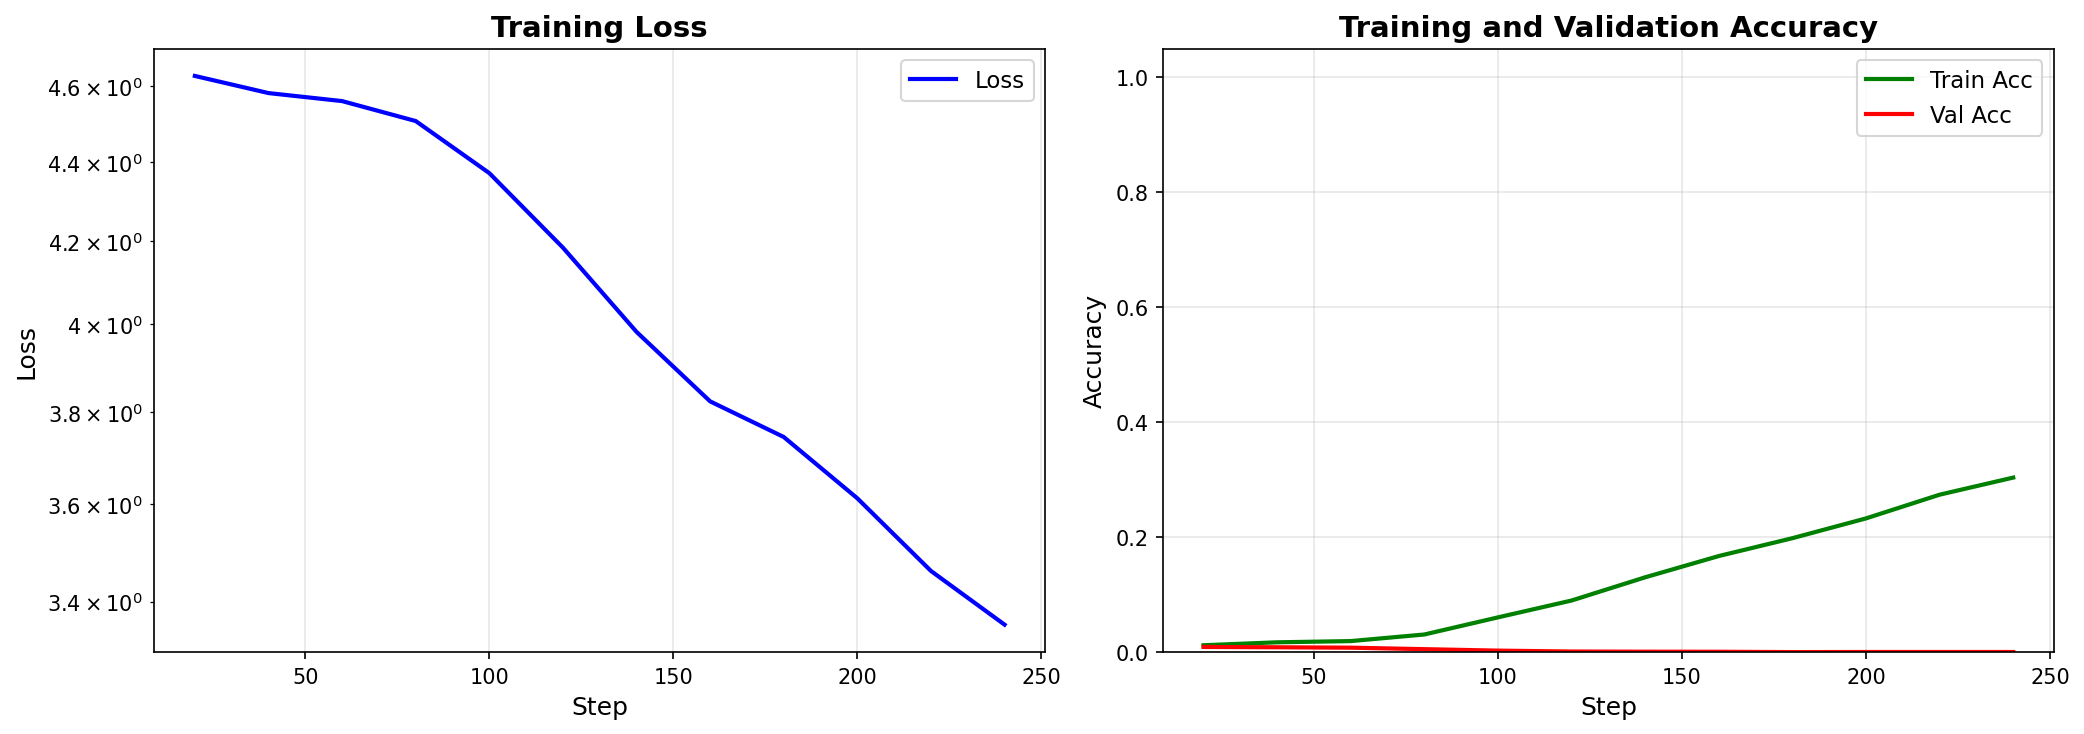
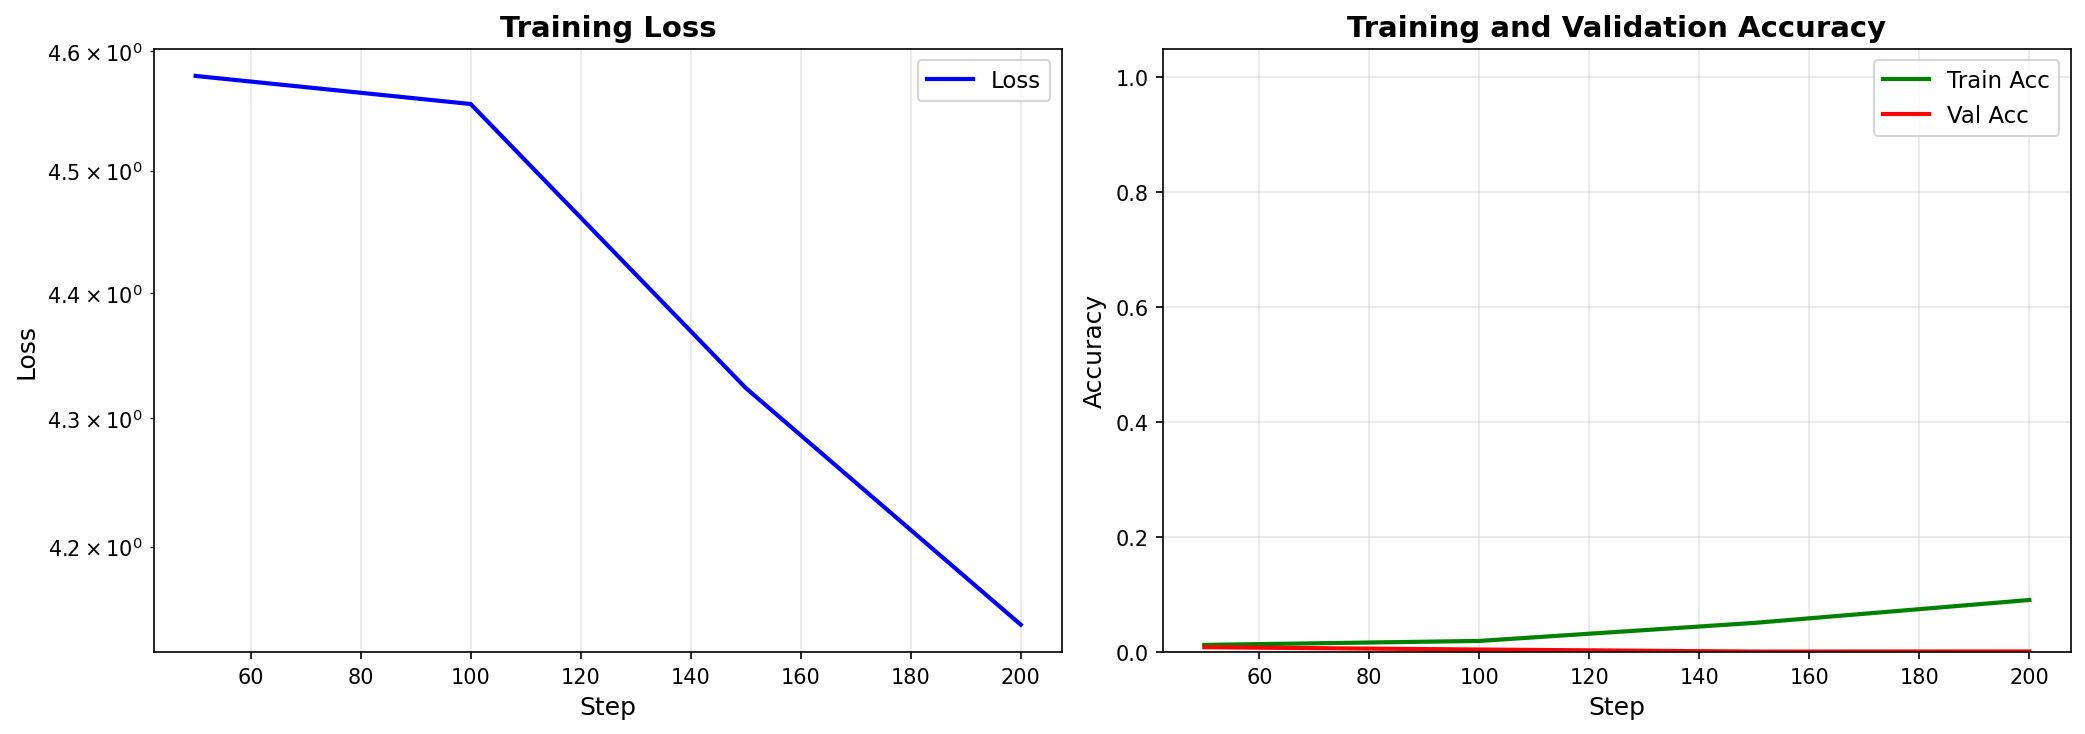
better readme

diff --git a/README.md b/README.md
@@ -6,36 +6,34 @@
  - Kairui Li
  - Kehan Huang
 
-好的，以下是更详细且完整的复现技术细节，直接列出所有关键信息，避免引用附录：
-
 ---
 
 ### **1. 数据集**
 #### **数据生成**
-- 数据集由二元运算表组成，形式为 \(a \circ b = c\)，其中 \(a, b, c\) 是离散符号，\(\circ\) 是二元运算。
+- 数据集由二元运算表组成，形式为 $a \circ b = c$，其中 $a, b, c$ 是离散符号，$\circ$ 是二元运算。
 - 使用的二元运算包括：
-  1. \(x \circ y = x + y \ (\text{mod}\ p)\)，其中 \(0 \leq x, y < p\)。
-  2. \(x \circ y = x - y \ (\text{mod}\ p)\)，其中 \(0 \leq x, y < p\)。
-  3. \(x \circ y = x / y \ (\text{mod}\ p)\)，其中 \(0 \leq x < p\)，\(0 < y < p\)。
-  4. \(x \circ y = [x / y \ (\text{mod}\ p)\ \text{if}\ y\ \text{is odd},\ \text{otherwise}\ x - y \ (\text{mod}\ p)]\)。
-  5. \(x \circ y = x^2 + y^2 \ (\text{mod}\ p)\)，其中 \(0 \leq x, y < p\)。
-  6. \(x \circ y = x^2 + xy + y^2 \ (\text{mod}\ p)\)，其中 \(0 \leq x, y < p\)。
-  7. \(x \circ y = x^2 + xy + y^2 + x \ (\text{mod}\ p)\)，其中 \(0 \leq x, y < p\)。
-  8. \(x \circ y = x^3 + xy \ (\text{mod}\ p)\)，其中 \(0 \leq x, y < p\)。
-  9. \(x \circ y = x^3 + xy^2 + y \ (\text{mod}\ p)\)，其中 \(0 \leq x, y < p\)。
-  10. \(x \circ y = x \cdot y\)，其中 \(x, y \in S_5\)（对称群）。
-  11. \(x \circ y = x \cdot y \cdot x^{-1}\)，其中 \(x, y \in S_5\)。
-  12. \(x \circ y = x \cdot y \cdot x\)，其中 \(x, y \in S_5\)。
+  1. $x \circ y = (x + y) \mod p$，其中 $0 \leq x, y < p$。
+  2. $x \circ y = (x - y) \mod p$，其中 $0 \leq x, y < p$。
+  3. $x \circ y = x / y \mod p$，其中 $0 \leq x < p$，$0 < y < p$。
+  4. $x \circ y = [\,x / y \mod p\ \text{ if } y \text{ is odd },\ \text{ otherwise } x - y \mod p\,]$。
+  5. $x \circ y = x^2 + y^2 \mod p$，其中 $0 \leq x, y < p$。
+  6. $x \circ y = x^2 + xy + y^2 \mod p$，其中 $0 \leq x, y < p$。
+  7. $x \circ y = x^2 + xy + y^2 + x \mod p$，其中 $0 \leq x, y < p$。
+  8. $x \circ y = x^3 + xy \mod p$，其中 $0 \leq x, y < p$。
+  9. $x \circ y = x^3 + xy^2 + y \mod p$，其中 $0 \leq x, y < p$。
+  10. $x \circ y = x \cdot y$，其中 $x, y \in S_5$（对称群）。
+  11. $x \circ y = x \cdot y \cdot x^{-1}$，其中 $x, y \in S_5$。
+  12. $x \circ y = x \cdot y \cdot x$，其中 $x, y \in S_5$。
 
-- **模数 \(p\)**：在实验中使用 \(p = 97\)。
+- **模数 $p$**：在实验中使用 $p = 97$。
 
 #### **数据划分**
 - 从所有可能的方程中随机选择一部分作为训练集，其余作为验证集。
 - 训练集的比例可以是 50%、30%、25% 等，具体比例会影响模型的泛化能力。
 
 #### **符号表示**
-- 每个符号（包括 \(a, b, c, \circ, =\)）都被表示为独立的 token。
-- 数据集中的每个方程形式为 \(⟨x⟩⟨op⟩⟨y⟩⟨=⟩⟨x \circ y⟩\)，其中 \(⟨a⟩\) 表示对应元素 \(a\) 的 token。
+- 每个符号（包括 $a, b, c, \circ, =$）都被表示为独立的 token。
+- 数据集中的每个方程形式为 $⟨x⟩⟨op⟩⟨y⟩⟨=⟩⟨x \circ y⟩$，其中 $⟨a⟩$ 表示对应元素 $a$ 的 token。
 
 ---
 
@@ -55,7 +53,7 @@
   - AdamW 的默认设置：
     - 学习率：10⁻³
     - 权重衰减：1
-    - 超参数 \(\beta_1 = 0.9\)，\(\beta_2 = 0.98\)
+- 超参数 $\beta_1 = 0.9$，$\beta_2 = 0.98$
     - 学习率预热：线性预热，前 10 次更新
     - 小批量大小：512 或训练集大小的一半（取较小值）
     - 优化步数：10⁵ 步
@@ -107,18 +105,14 @@
 
 ---
 
-通过以上详细的技术细节，你可以完整地复现论文中的实验，并探索神经网络在小算法数据集上的泛化行为。
-
----
-
 ### **项目架构**
 - 入口脚本：`train.py`（解析命令行参数并启动训练）
 - 模块目录：`mlfinal/`
-  - `config.py`：配置数据类 `Config`（c:\Users\33235\Desktop\机器学习数学导引作业\ML-final\mlfinal\config.py:4）
-  - `data.py`：数据与词表，支持模运算与 `S5` 群（c:\Users\33235\Desktop\机器学习数学导引作业\ML-final\mlfinal\data.py:93）
-  - `model.py`：解码器-only Transformer（c:\Users\33235\Desktop\机器学习数学导引作业\ML-final\mlfinal\model.py:1）
-  - `utils.py`：优化器构建、训练曲线、t-SNE 可视化（c:\Users\33235\Desktop\机器学习数学导引作业\ML-final\mlfinal\utils.py:1）
-  - `trainer.py`：训练与评估主循环（c:\Users\33235\Desktop\机器学习数学导引作业\ML-final\mlfinal\trainer.py:10）
+  - `config.py`：配置数据类 `Config`（.\mlfinal\config.py:4）
+  - `data.py`：数据与词表，支持模运算与 `S5` 群（.\mlfinal\data.py:93）
+  - `model.py`：解码器-only Transformer（.\mlfinal\model.py:1）
+  - `utils.py`：优化器构建、训练曲线、t-SNE 可视化（.\mlfinal\utils.py:1）
+  - `trainer.py`：训练与评估主循环（.\mlfinal\trainer.py:10）
 
 ### **使用方法**
 - 快速运行：`python train.py --op mod_add --steps 3000 --target-val-acc 0.90`
@@ -132,9 +126,9 @@
 - 依赖安装：`pip install torch matplotlib`，可选 t-SNE：`pip install scikit-learn`
 
 ### **支持的运算**
-- 模运算（`p=97`）：加、减、除、奇偶分支、若干多项式组合（c:\Users\33235\Desktop\机器学习数学导引作业\ML-final\mlfinal\data.py:28）
-- 群运算：`S5` 的乘法、共轭、`x·y·x`（c:\Users\33235\Desktop\机器学习数学导引作业\ML-final\mlfinal\data.py:65）
-- 统一样本格式：`⟨x⟩⟨op⟩⟨y⟩⟨=⟩⟨x∘y⟩`，仅监督最后一位（c:\Users\33235\Desktop\机器学习数学导引作业\ML-final\mlfinal\trainer.py:72）
+- 模运算（`p=97`）：加、减、除、奇偶分支、若干多项式组合（.\mlfinal\data.py:28）
+- 群运算：`S5` 的乘法、共轭、`x·y·x`（.\mlfinal\data.py:65）
+- 统一样本格式：`⟨x⟩⟨op⟩⟨y⟩⟨=⟩⟨x∘y⟩`，仅监督最后一位（.\mlfinal\trainer.py:72）
 
 ### **关键超参数**
 - 数据：`--p`、`--train-ratio`、`--op`
@@ -145,11 +139,11 @@
 - 可视化：`--tsne` 或 `--no-tsne`
 
 ### **原理要点**
-- 序列建模思路：将二元运算表转为长度 5 的短序列，最后一位为监督目标，避免不必要的语言损失污染（c:\Users\33235\Desktop\机器学习数学导引作业\ML-final\mlfinal\trainer.py:78）
-- 因果注意力：下三角掩码，确保第 5 位的预测仅依赖前 4 位输入（c:\Users\33235\Desktop\机器学习数学导引作业\ML-final\mlfinal\model.py:17）
-- 训练/评估一致：训练时与评估时都以等号 token 作为占位输入第 5 位（c:\Users\33235\Desktop\机器学习数学导引作业\ML-final\mlfinal\trainer.py:72, c:\Users\33235\Desktop\机器学习数学导引作业\ML-final\mlfinal\trainer.py:49）
-- 优化与正则：支持 Adam/AdamW、线性预热、梯度裁剪、梯度与权重噪声、向初始化点衰减，覆盖 README 中主要实验设置（c:\Users\33235\Desktop\机器学习数学导引作业\ML-final\mlfinal\trainer.py:81, c:\Users\33235\Desktop\机器学习数学导引作业\ML-final\mlfinal\utils.py:23）
-- 嵌入分析：输出层权重 t-SNE，直观观察模型学习到的结构（c:\Users\33235\Desktop\机器学习数学导引作业\ML-final\mlfinal\utils.py:27）
+- 序列建模思路：将二元运算表转为长度 5 的短序列，最后一位为监督目标，避免不必要的语言损失污染（.\mlfinal\trainer.py:78）
+- 因果注意力：下三角掩码，确保第 5 位的预测仅依赖前 4 位输入（.\mlfinal\model.py:17）
+- 训练/评估一致：训练时与评估时都以等号 token 作为占位输入第 5 位（.\mlfinal\trainer.py:72, .\mlfinal\trainer.py:49）
+- 优化与正则：支持 Adam/AdamW、线性预热、梯度裁剪、梯度与权重噪声、向初始化点衰减，覆盖 README 中主要实验设置（.\mlfinal\trainer.py:81, .\mlfinal\utils.py:23）
+- 嵌入分析：输出层权重 t-SNE，直观观察模型学习到的结构（.\mlfinal\utils.py:27）
 
 ### **常见问题**
 - OpenMP 冲突：如出现 `libiomp5md.dll` 重复初始化，代码已设置环境变量自动绕过（`mlfinal/utils.py`）；仍建议统一依赖版本。